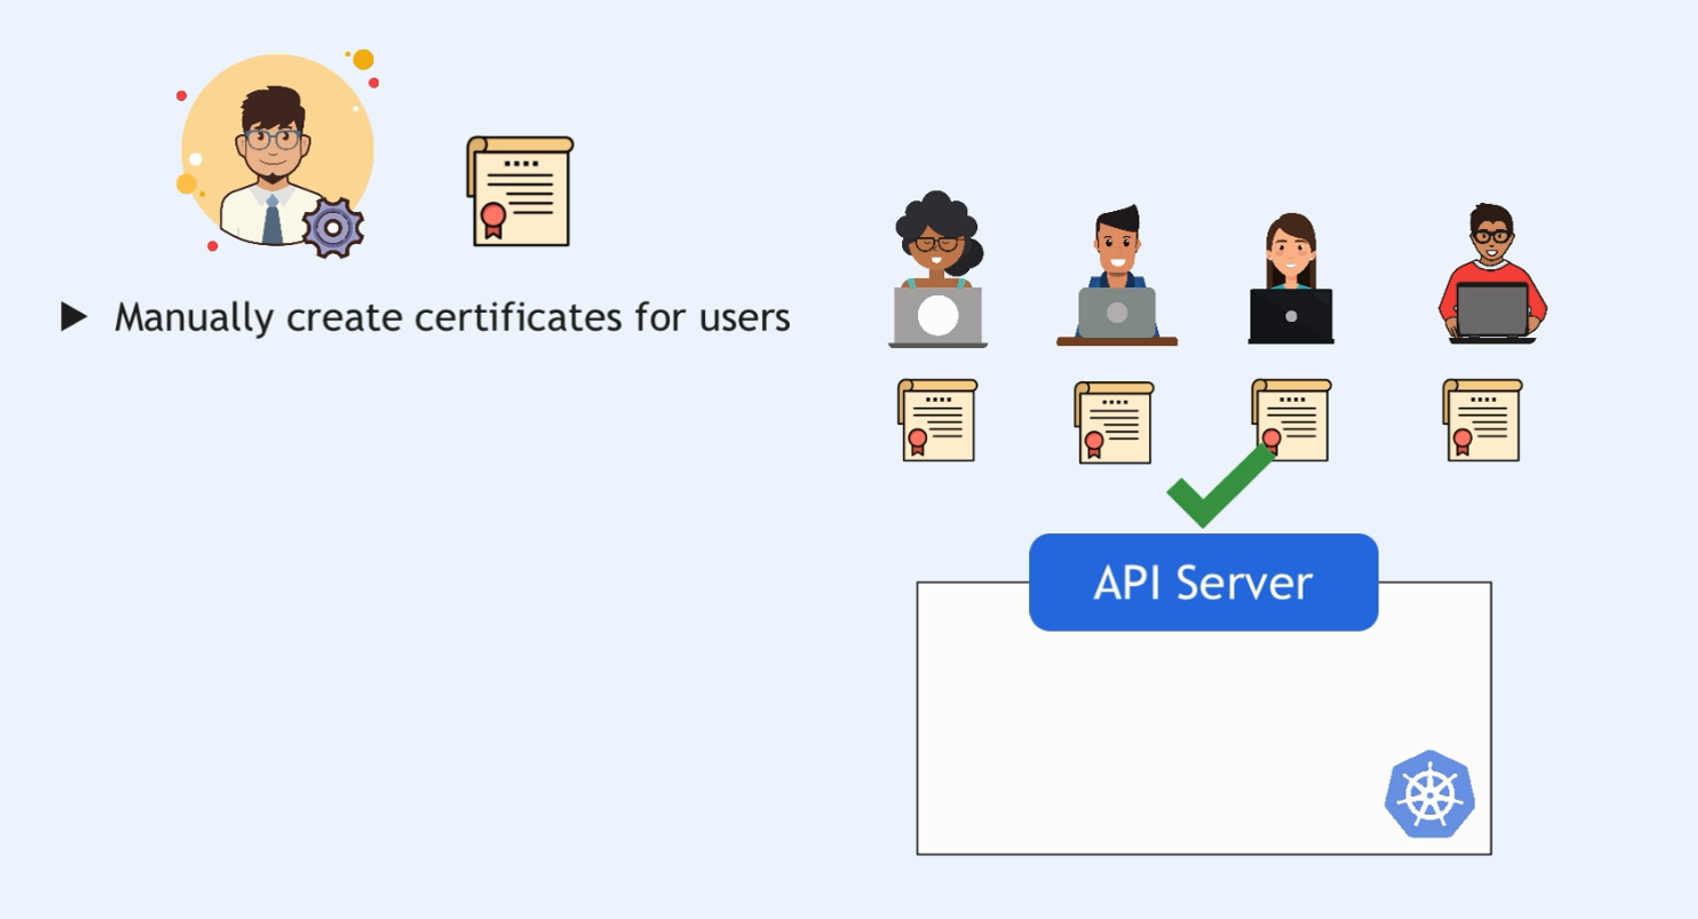
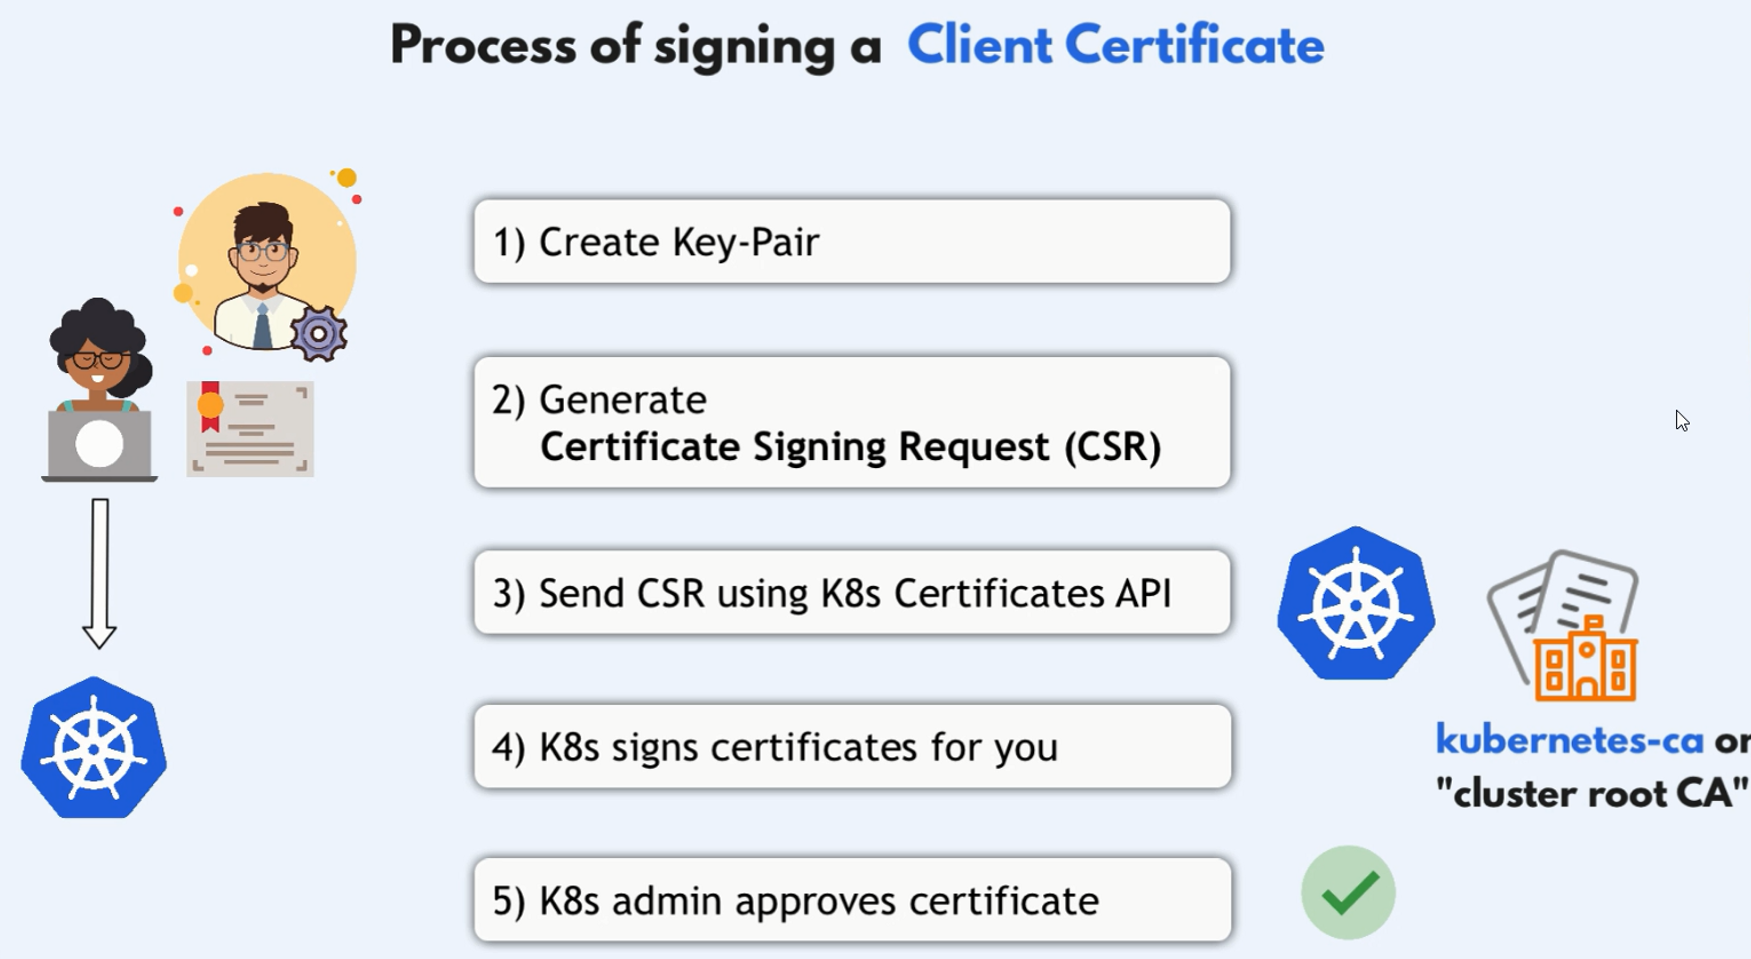
save

Changed region(s): [[0.0, 0.0, 1.0, 1.0], [0.8428, 0.2133, 0.9364, 0.518], [0.0, 0.7008, 0.0936, 0.8531]]

diff --git a/documentations/4-orchestration-tools/k8s/7.Security and RBAC/1.2.users-groups-service-account.md b/documentations/4-orchestration-tools/k8s/7.Security and RBAC/1.2.users-groups-service-account.md
@@ -22,112 +22,192 @@ To create users in Kubernetes, you typically use one of the following methods:
 
 ## Method 1: Client Certificate Authentication
 
-1. **Generate and sign a client certificate** for the user "hady" using the existing Kubernetes CA.
-2. **Base64 encode** the CA certificate, user certificate, and user key.
-3. **Create a kubeconfig file** that embeds these Base64-encoded values.
-4. **Distribute the kubeconfig file** to the user.
-5. The **user configures `kubectl`** to use the provided kubeconfig file.
+![alt text](images/client-cert-1.png)
 
-### **1. Generate a Client Certificate for the User "hady"**
+1. **Generate key-pair for user using openssl**: `openssl genrsa -out hady.key 2048`
+2. **Generate CSR**: `openssl req -new -key hady.key -subj "/CN=hady/O=dev-group" -out hady.csr`
+3. **Send CSR using k8s Certificates API**: create a certification request yaml file and send it to k8s.
+4. **K8s Signs Certificates for you**: by default, k8s will sign the certificate for 1 year
+5. **K8s admin approves certificate**: `kubectl certificate approve hady`
 
-1. **Locate the Existing CA Files**:
+### 1. **Generate a Key Pair for the User**
 
-   - CA Certificate: `/etc/kubernetes/pki/ca.crt`
-   - CA Key: `/etc/kubernetes/pki/ca.key`
+First, you'll generate a private key for the user "hady" using OpenSSL.
 
-2. **Generate a Private Key for the User**:
+```bash
+openssl genrsa -out hady.key 2048
+```
 
-   ```sh
-   openssl genrsa -out hady.key 2048
-   ```
+- **`hady.key`**: This is the private key that will be used to generate the CSR and later to establish a secure connection with the Kubernetes API server.
 
-3. **Create a Certificate Signing Request (CSR) for the User**:
+### 2. **Generate a Certificate Signing Request (CSR)**
 
-   ```sh
-   openssl req -new -key hady.key -subj "/CN=hady/O=dev-group" -out hady.csr
-   ```
+Next, create a CSR using the private key. This CSR will be submitted to Kubernetes for signing.
 
-   - **`/CN=hady`**: Common Name (username) in Kubernetes.
-   - **`/O=dev-group`**: Organization (group) in Kubernetes.
+```bash
+openssl req -new -key hady.key -subj "/CN=hady/O=dev-group" -out hady.csr
+```
 
-4. **Sign the CSR with the Kubernetes CA**:
+- **`/CN=hady`**: The Common Name (CN) field represents the username in Kubernetes.
+- **`/O=dev-group`**: The Organization (O) field is typically used for group membership in Kubernetes.
+- **`hady.csr`**: This is the CSR file that you'll submit to Kubernetes.
 
-   ```sh
-   openssl x509 -req -in hady.csr -CA /etc/kubernetes/pki/ca.crt -CAkey /etc/kubernetes/pki/ca.key -CAcreateserial -out hady.crt -days 365
-   ```
+### 3. **Create a [Certificate Signing Request](https://kubernetes.io/docs/reference/access-authn-authz/certificate-signing-requests/) (CSR) in Kubernetes**
 
-### **2. Base64 Encode the Necessary Files**
+Create a Kubernetes CSR resource by writing a YAML file that includes the Base64-encoded CSR. This CSR will request that Kubernetes signs the certificate.
 
-1. **Base64 Encode the CA Certificate**:
+#### **Example CSR YAML File (`hady-csr.yaml`)**:
 
-   ```sh
-   cat /etc/kubernetes/pki/ca.crt | base64 | tr -d '\n' > ca.crt.base64
-   ```
+```yaml
+apiVersion: certificates.k8s.io/v1
+kind: CertificateSigningRequest
+metadata:
+  name: hady
+spec:
+  groups:
+    - system:authenticated
+  request: <Base64-encoded-hady.csr>
+  signerName: kubernetes.io/kube-apiserver-client
+  usages:
+    - client auth
+```
 
-2. **Base64 Encode the User’s Certificate**:
+- **`metadata.name`**: The name of the CSR resource in Kubernetes, here set to "hady".
+- **`groups`**: The group that the user belongs to, which will be "system:authenticated" by default.
+- **`request`**: The Base64-encoded CSR from the previous step.
+- **`signerName`**: Specifies the signer, which is typically `kubernetes.io/kube-apiserver-client` for client authentication certificates.
+- **`usages`**: Specifies that this certificate will be used for client authentication.
 
-   ```sh
-   cat hady.crt | base64 | tr -d '\n' > hady.crt.base64
-   ```
+#### **Command to Encode the CSR**
 
-3. **Base64 Encode the User’s Private Key**:
+You can encode the CSR directly in your terminal and insert it into the YAML file:
 
-   ```sh
-   cat hady.key | base64 | tr -d '\n' > hady.key.base64
-   ```
+```bash
+cat hady.csr | base64 | tr -d '\n'
+```
 
-### **3. Create the kubeconfig File**
+Replace the <Base64-encoded-hady.crt> placeholder in the YAML file with the actual Base64-encoded string.
 
-1. **Create the kubeconfig File** with the embedded certificates and key:
+#### **Apply the CSR to Kubernetes**:
 
-   ```yaml
-   apiVersion: v1
-   kind: Config
-   clusters:
-     - name: kubernetes-cluster
-       cluster:
-         server: https://<api-server-endpoint>:6443
-         certificate-authority-data: LS0tLS1CRUdJTiBDRVJUSUZJQ0FURS0tLS0tCg... # Replace with content of ca.crt.base64
-   contexts:
-     - name: hady-context
-       context:
-         cluster: kubernetes-cluster
-         namespace: default
-         user: hady
-   current-context: hady-context
-   users:
-     - name: hady
-       user:
-         client-certificate-data: LS0tLS1CRUdJTiBDRVJUSUZJQ0FURS0tLS0tCg... # Replace with content of hady.crt.base64
-         client-key-data: LS0tLS1CRUdJTiBSU0EgUFJJVkFURSBLRVktLS0tLQo... # Replace with content of hady.key.base64
-   ```
+Once the YAML file is ready, apply it to the Kubernetes cluster:
 
-2. **Replace the placeholders**:
-   - **`<api-server-endpoint>`**: Replace with your Kubernetes API server’s endpoint.
-   - **`certificate-authority-data`**: Replace with the Base64-encoded CA certificate (`ca.crt.base64`).
-   - **`client-certificate-data`**: Replace with the Base64-encoded user certificate (`hady.crt.base64`).
-   - **`client-key-data`**: Replace with the Base64-encoded user key (`hady.key.base64`).
+```bash
+kubectl apply -f hady-csr.yaml
+```
 
-### **4. Distribute the kubeconfig File**
+### 4. **Kubernetes Signs the Certificate**
 
-- **Send the kubeconfig File**: Send the complete kubeconfig file to the user "hady". Ensure that the file has proper permissions so that only the user can read it.
+By default, Kubernetes will automatically sign the CSR once it's approved. The certificate is typically valid for one year unless otherwise configured.
 
-### **5. User Configures `kubectl`**
+### 5. **Kubernetes Admin Approves the Certificate**
 
-1. **Place the kubeconfig File**: The user should save the kubeconfig file to `~/.kube/config` or set the `KUBECONFIG` environment variable to point to the file.
+After submitting the CSR, a Kubernetes administrator (or the appropriate user with the right permissions) must approve the certificate:
 
-2. **Set the Context** (if needed):
+```bash
+kubectl get csr
+kubectl certificate approve hady
+```
 
-   ```sh
-   kubectl config use-context hady-context
-   ```
+- **`hady`**: This is the name of the CSR you submitted (as defined in the `metadata.name` field of the YAML file).
 
-### 6. **if you want to extend your kubeconfig file**
+### 6. **Retrieve the Signed Certificate**
 
-```sh
-kubectl config set-credentials username --client-certificate=user.crt --client-key=user.key
-kubectl config set-context username-context --cluster=kubernetes-cluster --namespace=default --user=username
-kubectl config use-context username-context
+Once the CSR is approved, you can retrieve the signed certificate and save it to a file:
+
+```bash
+kubectl get csr hady -o jsonpath='{.status.certificate}' | base64 --decode > hady.crt
+```
+
+- **`hady.crt`**: This file contains the signed certificate that you can use in your kubeconfig file.
+
+### 7. **Test the Certificate**
+
+You can test the certificate by using it to authenticate with the Kubernetes API server:
+
+```bash
+kubectl get pods --server=https://<api-server-endpoint>:6443 \
+--certificate-authority=/etc/kubernetes/pki/ca.crt \
+--client-key=hady.key --client-certificate=hady.crt
+```
+
+### 8. **Create a kubeconfig File**
+
+With the signed certificate (`hady.crt`), the private key (`hady.key`), and the CA certificate (already available from your cluster setup), you can now create a kubeconfig file that the user "hady" will use to authenticate with the Kubernetes cluster.
+
+#### **Send kubeconfig to user with external key/pair files**
+
+![alt text](images/send-kubeconfig-to-user-with-external-key-pair-files.png)
+
+```yaml
+apiVersion: v1
+kind: Config
+clusters:
+  - name: kubernetes-cluster
+    cluster:
+      server: https://<api-server-endpoint>:6443
+      certificate-authority-data: <Base64-encoded-ca.crt>
+contexts:
+  - name: hady-context
+    context:
+      cluster: kubernetes-cluster
+      namespace: default
+      user: hady
+current-context: hady-context
+users:
+  - name: hady
+    user:
+      client-certificate: <path-to-hady.crt>
+      client-key: <path-to-hady.key>
+```
+
+Replace the placeholders:
+
+- **`<api-server-endpoint>`**: The Kubernetes API server endpoint.
+- **`<Base64-encoded-ca.crt>`**: The Base64-encoded CA certificate.
+- **`<path-to-hady.crt>`**: The path to the `hady.crt` file.
+- **`<path-to-hady.key>`**: The path to the `hady.key` file.
+
+#### **Send kubeconfig to user with impeded key/pair**
+
+![alt text](images/send-kubeconfig-to-user-with-impeded-key-pair.png)
+
+```yaml
+apiVersion: v1
+kind: Config
+clusters:
+  - name: kubernetes-cluster
+    cluster:
+      server: https://<api-server-endpoint>:6443
+      certificate-authority-data: <Base64-encoded-ca.crt>
+contexts:
+  - name: hady-context
+    context:
+      cluster: kubernetes-cluster
+      namespace: default
+      user: hady
+current-context: hady-context
+users:
+  - name: hady
+    user:
+      client-certificate-data: <Base64-encoded-hady.crt>
+      client-key-data: <Base64-encoded-hady.key>
+```
+
+Replace the placeholders:
+
+- **`<api-server-endpoint>`**: The Kubernetes API server endpoint (public IP or domain name).
+- **`<Base64-encoded-ca.crt>`**: The Base64-encoded CA certificate.
+- **`<Base64-encoded-hady.crt>`**: The Base64-encoded `hady.crt` file.
+- **`<Base64-encoded-hady.key>`**: The Base64-encoded `hady.key` file.
+
+```bash
+# Encode the ca.crt
+cat /etc/kubernetes/pki/ca.crt | base64 | tr -d '\n'
+# Encode the hady.crt
+cat hady.crt | base64 | tr -d '\n'
+# Encode the hady.key
+cat hady.key | base64 | tr -d '\n'
 ```
 
 ## Method 2: Static Token File

diff --git a/documentations/4-orchestration-tools/k8s/7.Security and RBAC/1.1.authentication.md b/documentations/4-orchestration-tools/k8s/7.Security and RBAC/1.1.authentication.md
@@ -18,8 +18,6 @@ Kubernetes provides several authentication mechanisms, each suited to different 
 ![alt text](images/auth-methods.png)
 
 ### 2.1 **Client Certificates**
- 
-![alt text](images/client-cert-1.png)
 
 - **Usage**: Commonly used for securing communication between the API server and kubelets or other API clients.
 - **How it Works**: The client presents a certificate signed by a trusted Certificate Authority (CA) when making a request. The API server verifies this certificate to authenticate the client.
